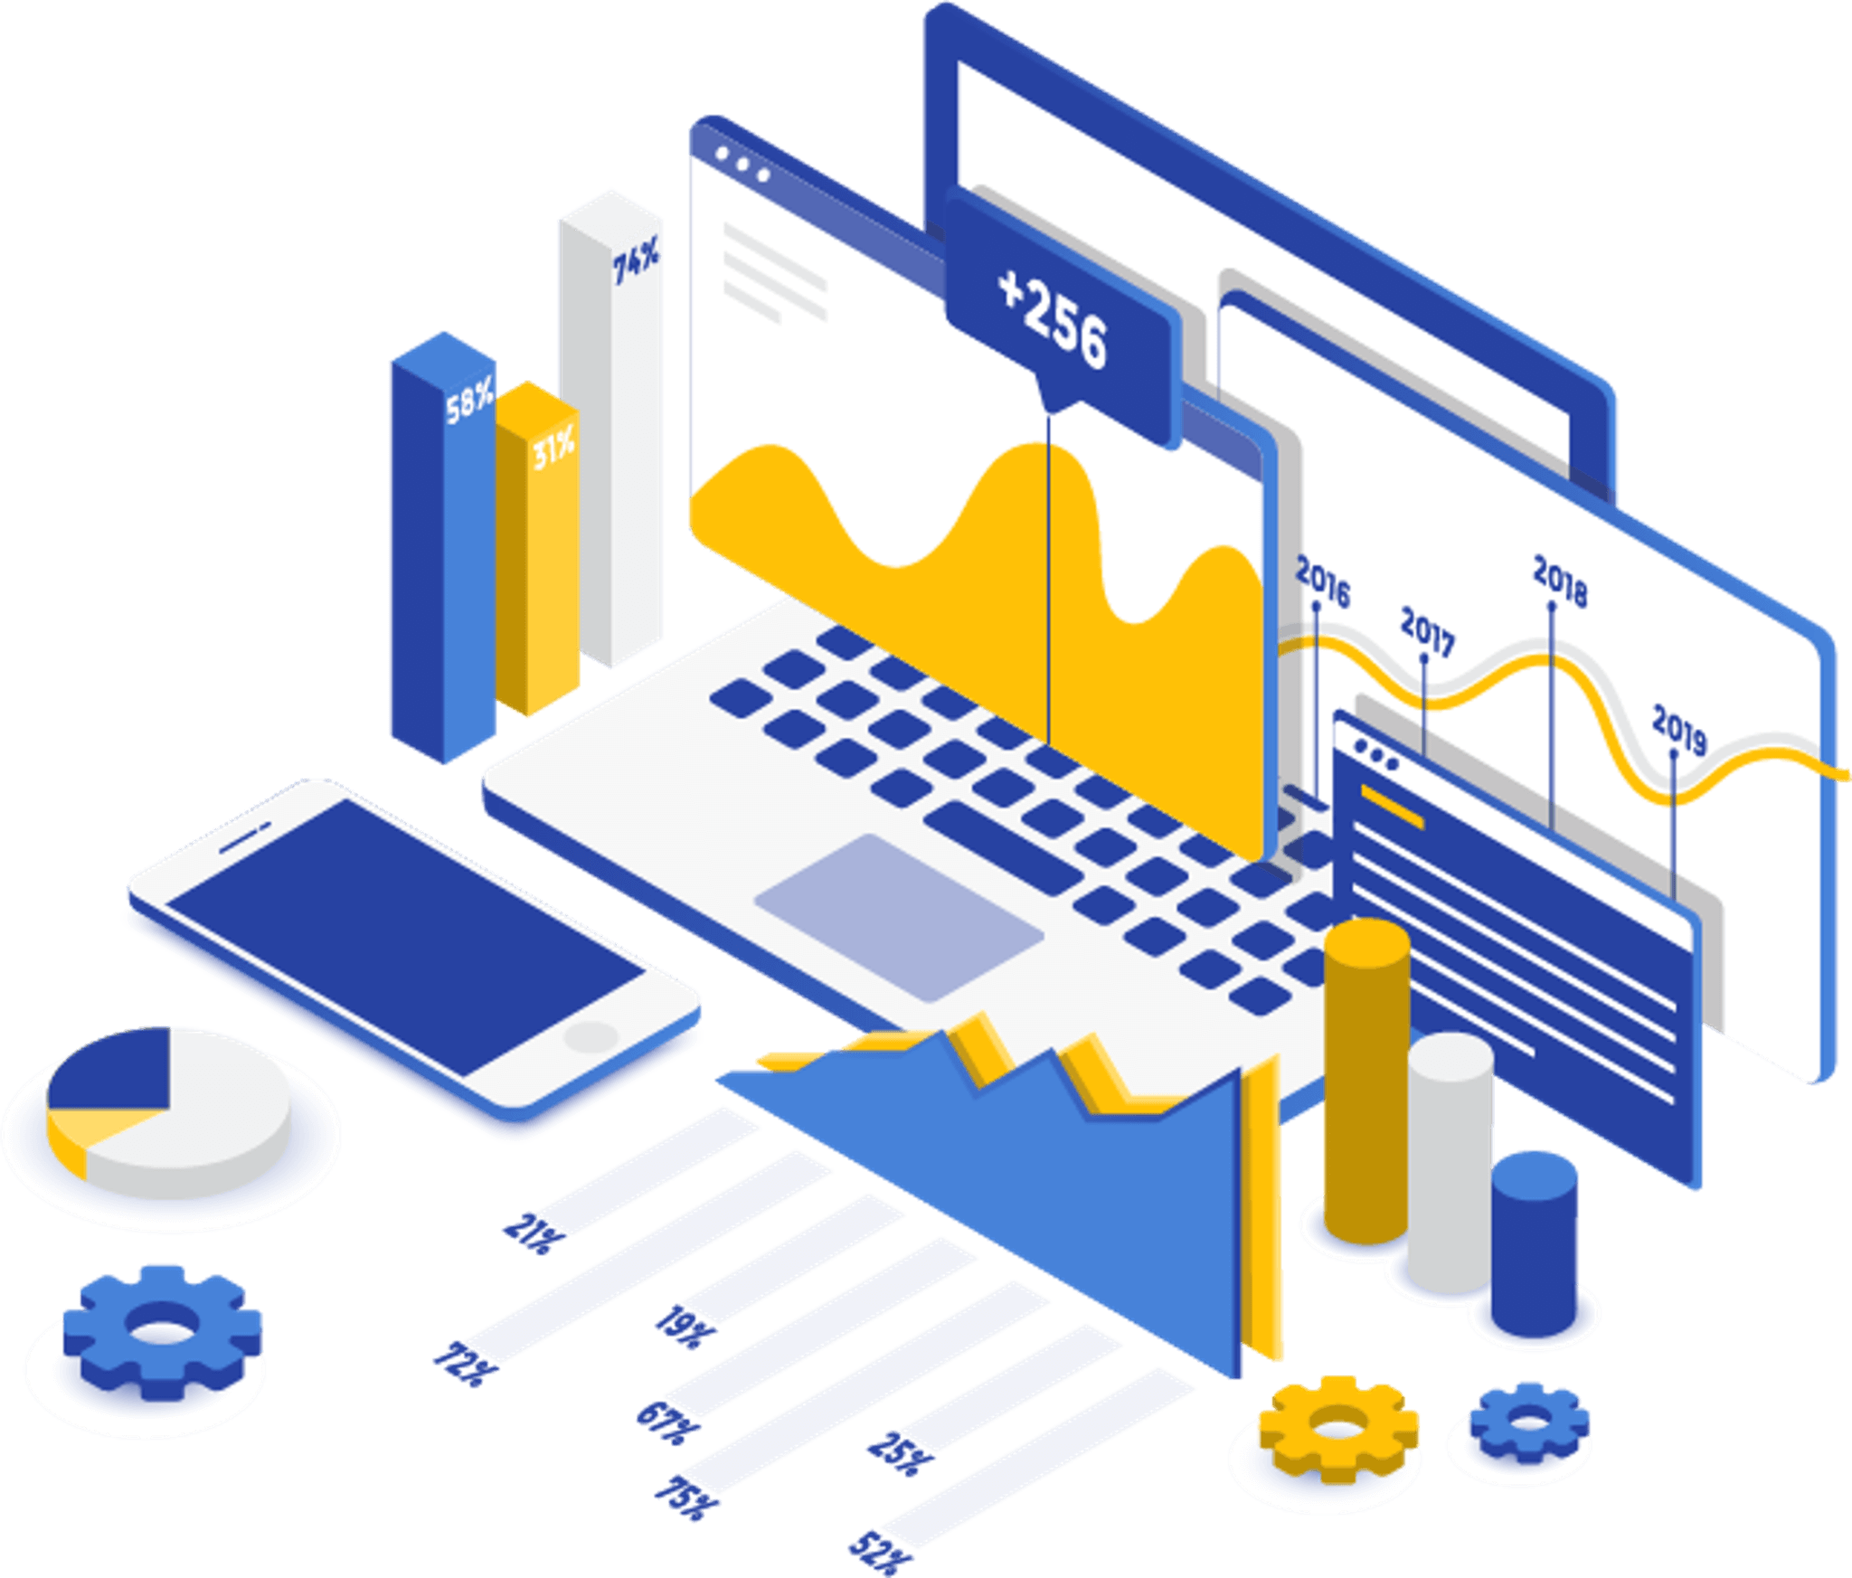
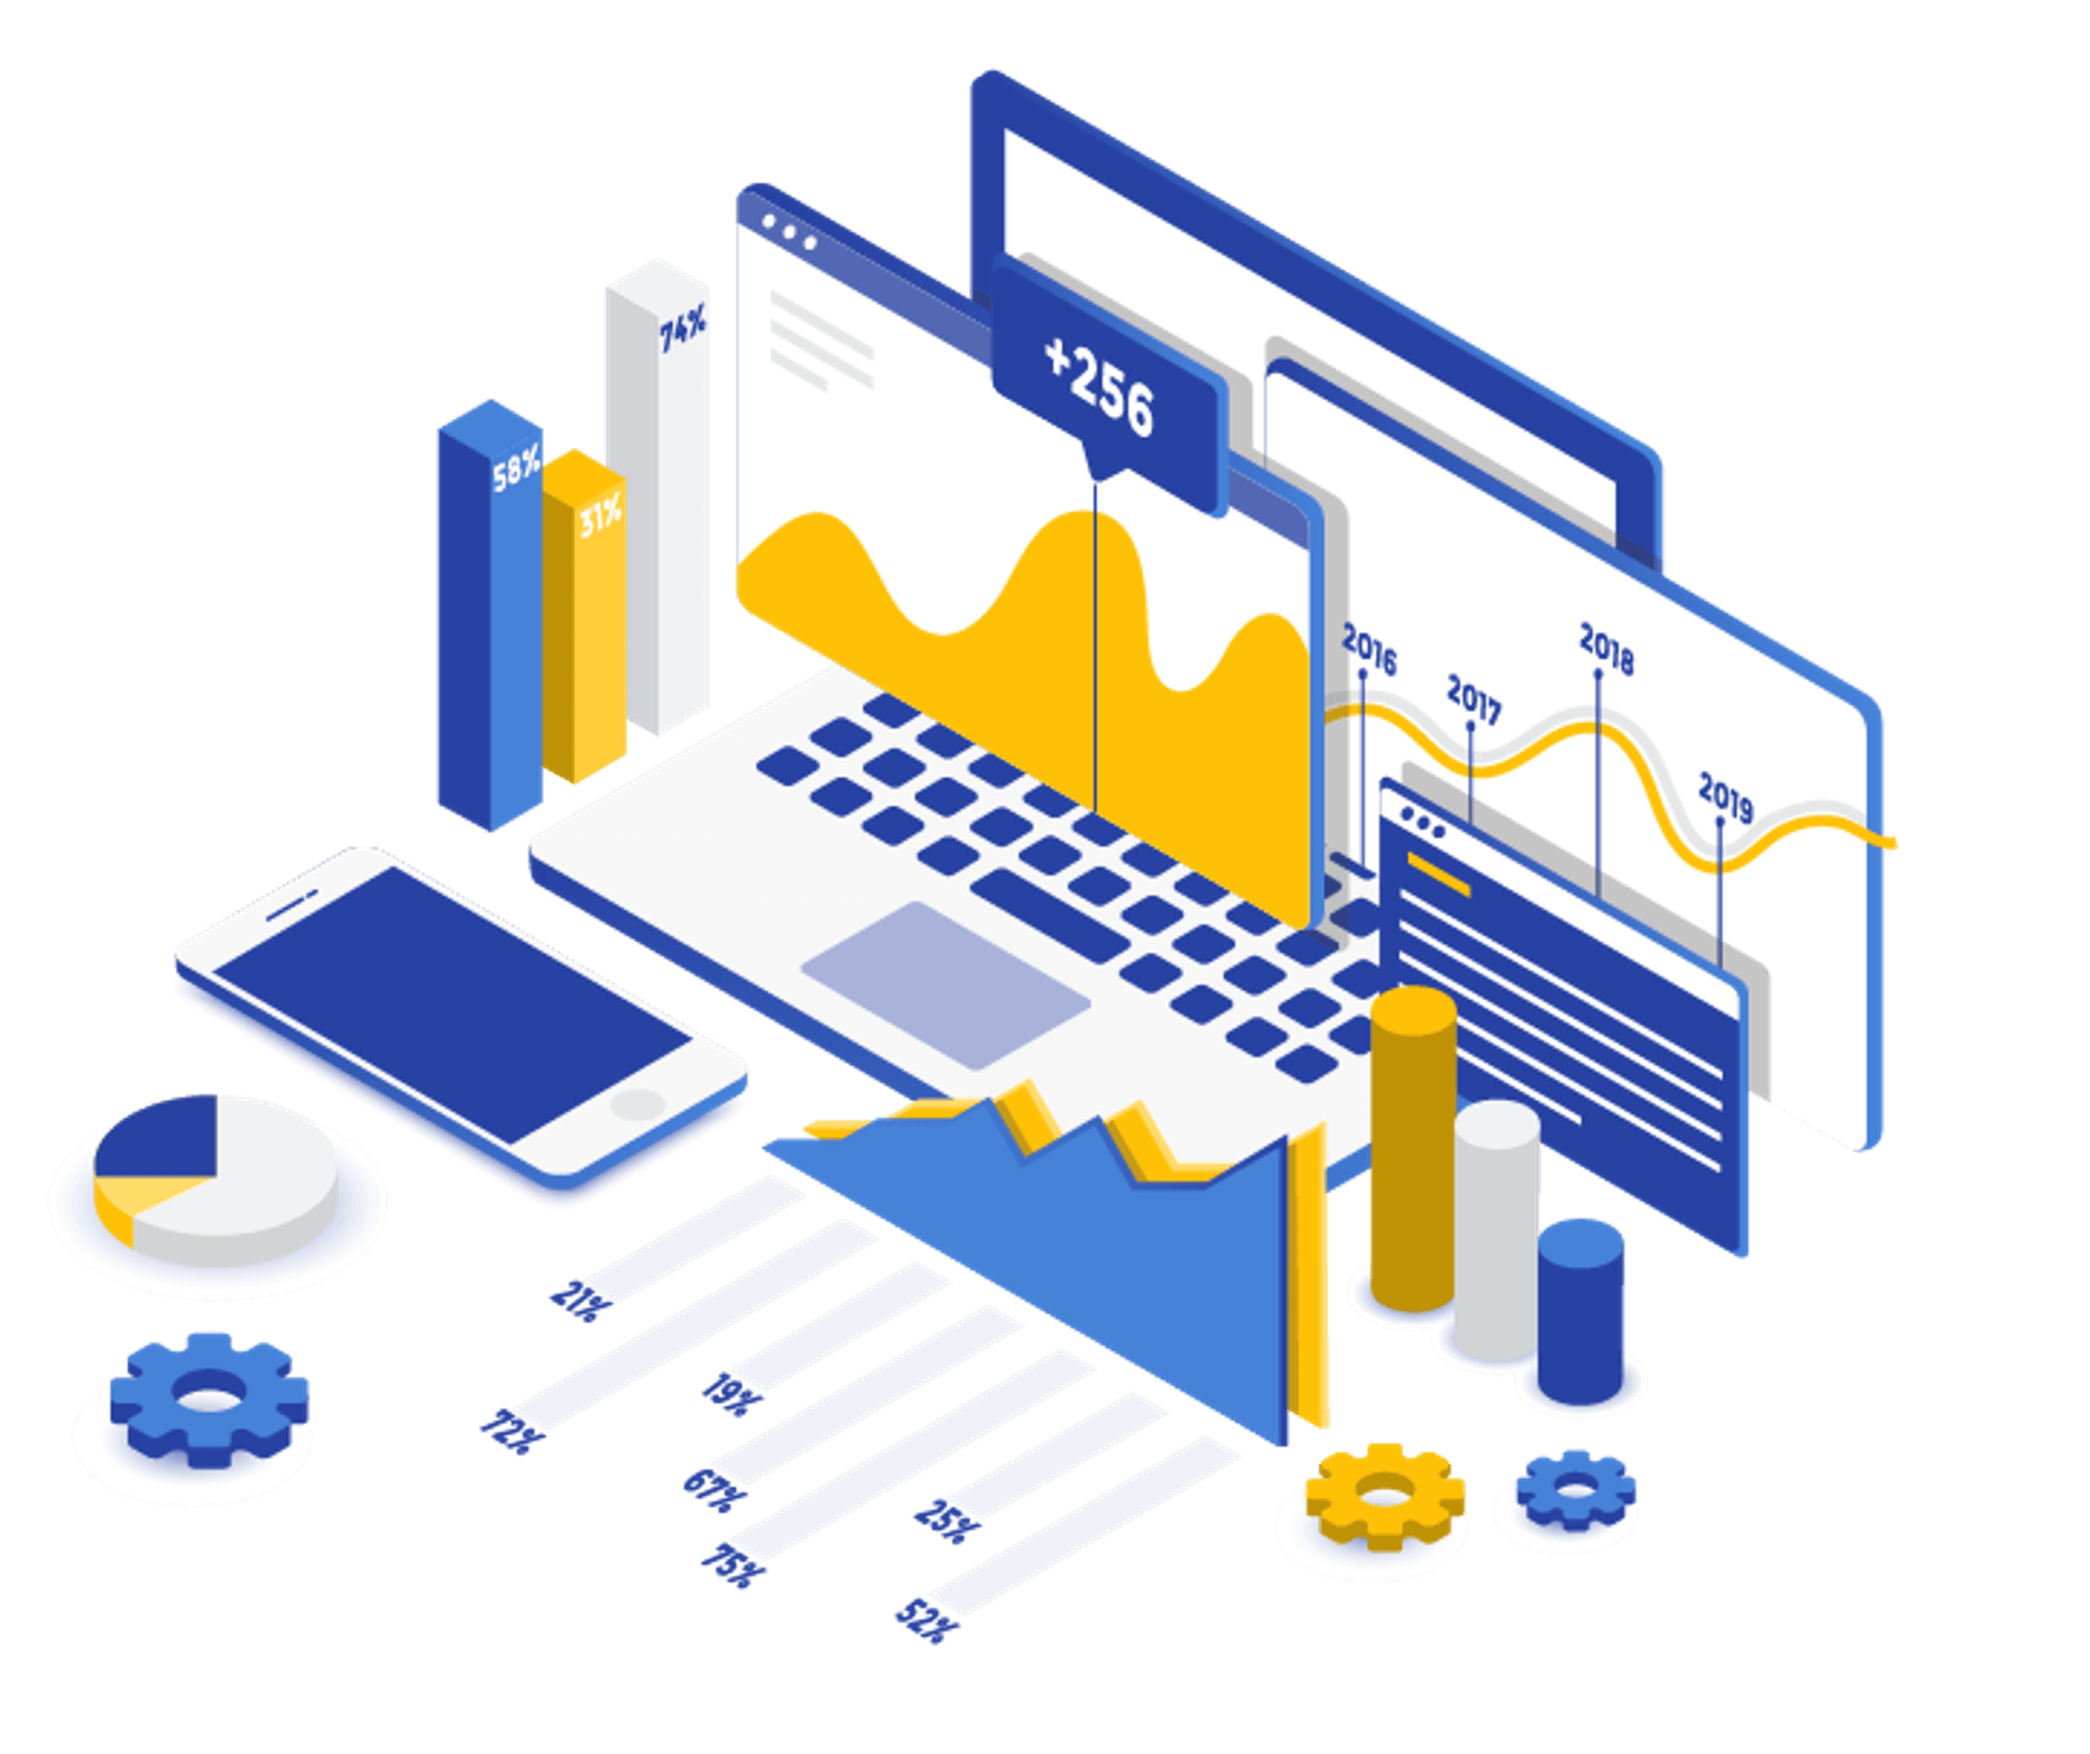
Primera Iteracion del estilado de la página Home.

diff --git a/frontend/src/index.css b/frontend/src/index.css
@@ -1,4 +1,9 @@
 
+@tailwind base;
+@tailwind components;
+@tailwind utilities;
+@import url('https://fonts.googleapis.com/css2?family=Lato:ital,wght@0,300;0,400;0,700;0,900;1,100;1,300;1,400;1,700;1,900&display=swap');
+
 *,
 *::before,
 *::after {
@@ -13,24 +18,11 @@
   --fw-reg: 150; /* Peso de la fuente regular. (cuan anchas son las letras)*/
   --fw-bold: 900; /* Peso de la fuente Bold o negrita. */
   /*El esquema de colores, es mejor usar variables, por si se decide cambiar el esquema solo hay que cambiarlo acá y no a traves del sitio. Si se usa Tailwind Hay que ver como implementarlo */
-  --clr-light: hsl(
-    0,
-    0%,
-    91%
-  ); /* Color claro. Personalmente prefiero hsl/hsla para formato de colores.*/
+  --clr-light: hsl(0, 0%, 98%); /* Color claro. Personalmente prefiero hsl/hsla para formato de colores.*/
   --clr-dark: hsl(240, 5%, 11%); /*Color oscuro*/
-  --clr-accent: hsla(336, 91%, 31%, 100%); /* Color principal o acento */
-  --clr-accentLessOpaque: hsla(
-    342,
-    /* Tono o Hue*/ 93%,
-    /* Saturación o Saturation */ 40%,
-    /* Brillo o Lightness */ 60% /* Alpha (transparencia) */
-  ); /*Version transparente del color principal */
-  --clr-accentEndPoint: hsl(
-    342,
-    93%,
-    40%
-  ); /* Color secundario. Aca coloqué una version mas clara del principal, cuando se decidan colores hay que cambiar el esquema */
+  --clr-accent: hsl(210, 51%, 53%); /* Color principal o acento */
+  --clr-accentLessOpaque: hsla(210, 51%, 53%, 60%);
+  --clr-accentEndPoint: hsl(210, 39%, 59%); /* Color secundario. Aca coloqué una version mas clara del principal, cuando se decidan colores hay que cambiar el esquema */
 
   /*Estos son las tipografias para pantalla chica. Quedan mejor si se achica un poco la letra para mejorar el responsiveness. Hay que ver si lo usamos */
   --fs-h1: 3rem;
@@ -43,7 +35,7 @@
 @media (min-width: 800px) {
   :root {
     --fs-h1: 4.5rem;
-    --fs-h2: 3.75rem;
+    --fs-h2: 2.5rem;
     --fs-h3: 1.5rem;
     --fs-body: 1.25rem;
   }
@@ -57,9 +49,7 @@ html {
 
 body {
   margin: 0;
-  font-family: -apple-system, BlinkMacSystemFont, "Segoe UI", "Roboto", "Oxygen",
-    "Ubuntu", "Cantarell", "Fira Sans", "Droid Sans", "Helvetica Neue",
-    sans-serif;
+  font-family: 'Lato', sans-serif;
   -webkit-font-smoothing: antialiased;
   -moz-osx-font-smoothing: grayscale;
 }
@@ -68,9 +58,90 @@ body {
   font-family: 'Inder', sans-serif;
 }
 
-@tailwind base;
-@tailwind components;
-@tailwind utilities;
-.moon {
-  fill: red;
+/* Navbar Style */
+
+/*Home Page Style*/
+
+.Home{
+  background-color: var(--clr-light);
+  overflow: hidden;
+}
+
+.textImage:first-of-type .textImage--textButton{
+    width: 50vw;
+}
+.textImage:first-of-type .textImage--img {
+  margin-right: -3em;
+  margin-top: -6em; 
+}
+/* .textImage:first-of-type {
+
+ 
+} */
+/* .textImage:first-of-type .textImage--img::after  {
+  content: " asdasdasd";
+  background: #ff0000;
+  height: 2000px;
+  z-index: 13;
+  width: 1000px;
+  display: inline-block;
+}
+ */
+
+
+/*TextImage Component Style*/
+
+.textImage {
+  display: flex;
+  flex-direction: row;
+  align-items: center;
+  justify-content: space-around;
+  margin:0;
+  padding: 0.5em;
+}
+
+.textImage--img {
+  width: 50vw;
+  align-self: center;
+}
+
+.textImage--textButton{
+  text-align: center;
+  padding: 2em;
+}
+
+.textImage--text {
+  color: var(--clr-accent);
+  padding:1em;
+  font-size: var(--fs-h2);
+  text-align: center;
+
+}
+
+.textImage--button{
+  all: unset;
+  cursor: pointer;
+  display: inline-block;
+  padding: 1em 2em;
+  background-color: var(--clr-accent); 
+  color: var(--clr-light);
+  cursor: pointer;
+  text-transform: uppercase;
+  letter-spacing: 2px;
+  font-weight: var(--fw-bold);
+  transition: transform 200ms ease-in-out, box-shadow 400ms ease-in-out;
+  border-radius: 25px; 
+}
+
+.textImage--button:hover {
+  transform: scale(1.1);
+  box-shadow: var(--bs);
+
+}
+
+.textImage--button:focus {
+  outline: 3px solid var(--clr-accent);
+  outline-offset: 3px;
+  z-index: 30;
+  border-radius: 25px;
 }

diff --git a/frontend/src/Pages/Home.js b/frontend/src/Pages/Home.js
@@ -6,12 +6,10 @@ import img3 from "../Assets/homeFoto.png";
 import img4 from "../Assets/dataAnalytics.png";
 
 export default function Home() {
-  const text1 = "NeoCoin la mejor manera de comprar cripto";
-  const text2 = "Crea tu propia billetera virtual con la mejor seguridad";
-  const text3 =
-    "Somos un equipo comprometido con garantizar la seguridad de tus criptos y para que tengas la mejor experiencia";
-  const text4 =
-    "Tenemos la mejor informacion del movimiento y cambio de la cripyo";
+  const text1 = "NeoCoin la mejor manera de comprar cripto"
+  const text2 = "Crea tu propia billetera virtual con la mejor seguridad"
+  const text3 = "Somos un equipo comprometido con garantizar la seguridad de tus criptos y para que tengas la mejor experiencia"
+  const text4 = "Tenemos la mejor informacion del movimiento y cambio del mercado de criptos"
   return (
     <div className="Home">
       <TextImage

diff --git a/frontend/src/Components/NavBar.js b/frontend/src/Components/NavBar.js
@@ -11,7 +11,7 @@ const NavBar = () => {
   };
 
   return (
-    <nav className="md:flex md:items-center md:justify-between text-sky-600  shadow ">
+    <nav className="md:flex md:items-center md:justify-between text-sky-600  shadow">
       <div className="">
         <img
           className="h-10 inline mx-2"
